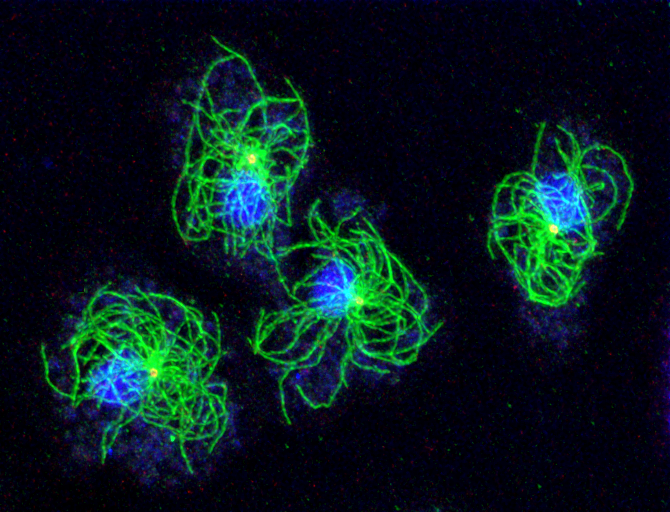
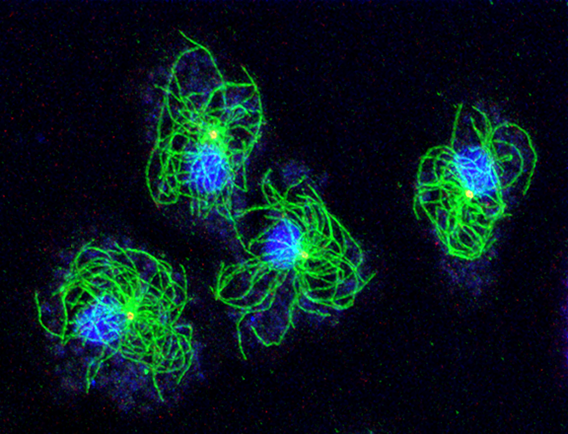
resize images and add maxheight

Changed region(s): [[0.3292, 0.0899, 0.3592, 0.1198]]

diff --git a/src/components/frontpage/Slideshow.js b/src/components/frontpage/Slideshow.js
@@ -23,7 +23,7 @@ const Slideshow = () => {
         <img
           src={lifeCycle}
           alt="dicty life cycle"
-          style={{ width: "100%", height: "100%" }}
+          style={{ width: "100%", height: "100%", maxHeight: "440px" }}
         />
         <p className="legend">
           <strong>Dicty Life Cycle</strong> Courtesy of M.J. Grimson & R.L.
@@ -35,7 +35,7 @@ const Slideshow = () => {
         <img
           src={slug}
           alt="D. discoideum slug"
-          style={{ width: "100%", height: "100%" }}
+          style={{ width: "100%", height: "100%", maxHeight: "440px" }}
         />
         <p className="legend">
           <strong>D. discoideum slug</strong> Courtesy Dirk Dormann, MRC London
@@ -46,7 +46,7 @@ const Slideshow = () => {
         <img
           src={tubulin}
           alt="ggtA-mutant-DG1109"
-          style={{ width: "100%", height: "100%" }}
+          style={{ width: "100%", height: "100%", maxHeight: "440px" }}
         />
         <p className="legend">
           <strong>

diff --git a/src/components/pages/Front.js b/src/components/pages/Front.js
@@ -27,7 +27,7 @@ const Front = () => {
           <News posts={news.slice(0, 5)} />
         </Box>
         <Box px={2} py={1} width={["100%", "100%", "100%", "50%"]}>
-          <Papers papers={papers.slice(0, 4)} />
+          <Papers papers={papers.slice(0, 5)} />
         </Box>
         <Box px={2} py={1} width={["100%", "50%", "50%", "25%"]}>
           <Popular widgets={widgets} />

diff --git a/src/styles/PaperContainer.js b/src/styles/PaperContainer.js
@@ -10,8 +10,8 @@ const PaperContainerStyle = styled.div`
   background-color: #eff8fb;
   border-radius: 15px;
   margin-bottom: 10px;
-  height: 400px;
-  overflow: auto;
+  /* height: 400px;
+  overflow: auto; */
 `
 
 const PaperContainer = ({ children, ...props }) => (

diff --git a/src/styles/NewsContainer.js b/src/styles/NewsContainer.js
@@ -9,8 +9,8 @@ const NewsContainerStyle = styled.div`
   border-radius: 15px;
   margin-top: 10px;
   margin-bottom: 10px;
-  height: 440px;
-  overflow: auto;
+  /* height: 440px;
+  overflow: auto; */
 `
 
 const NewsContainer = ({ children, ...props }) => (
